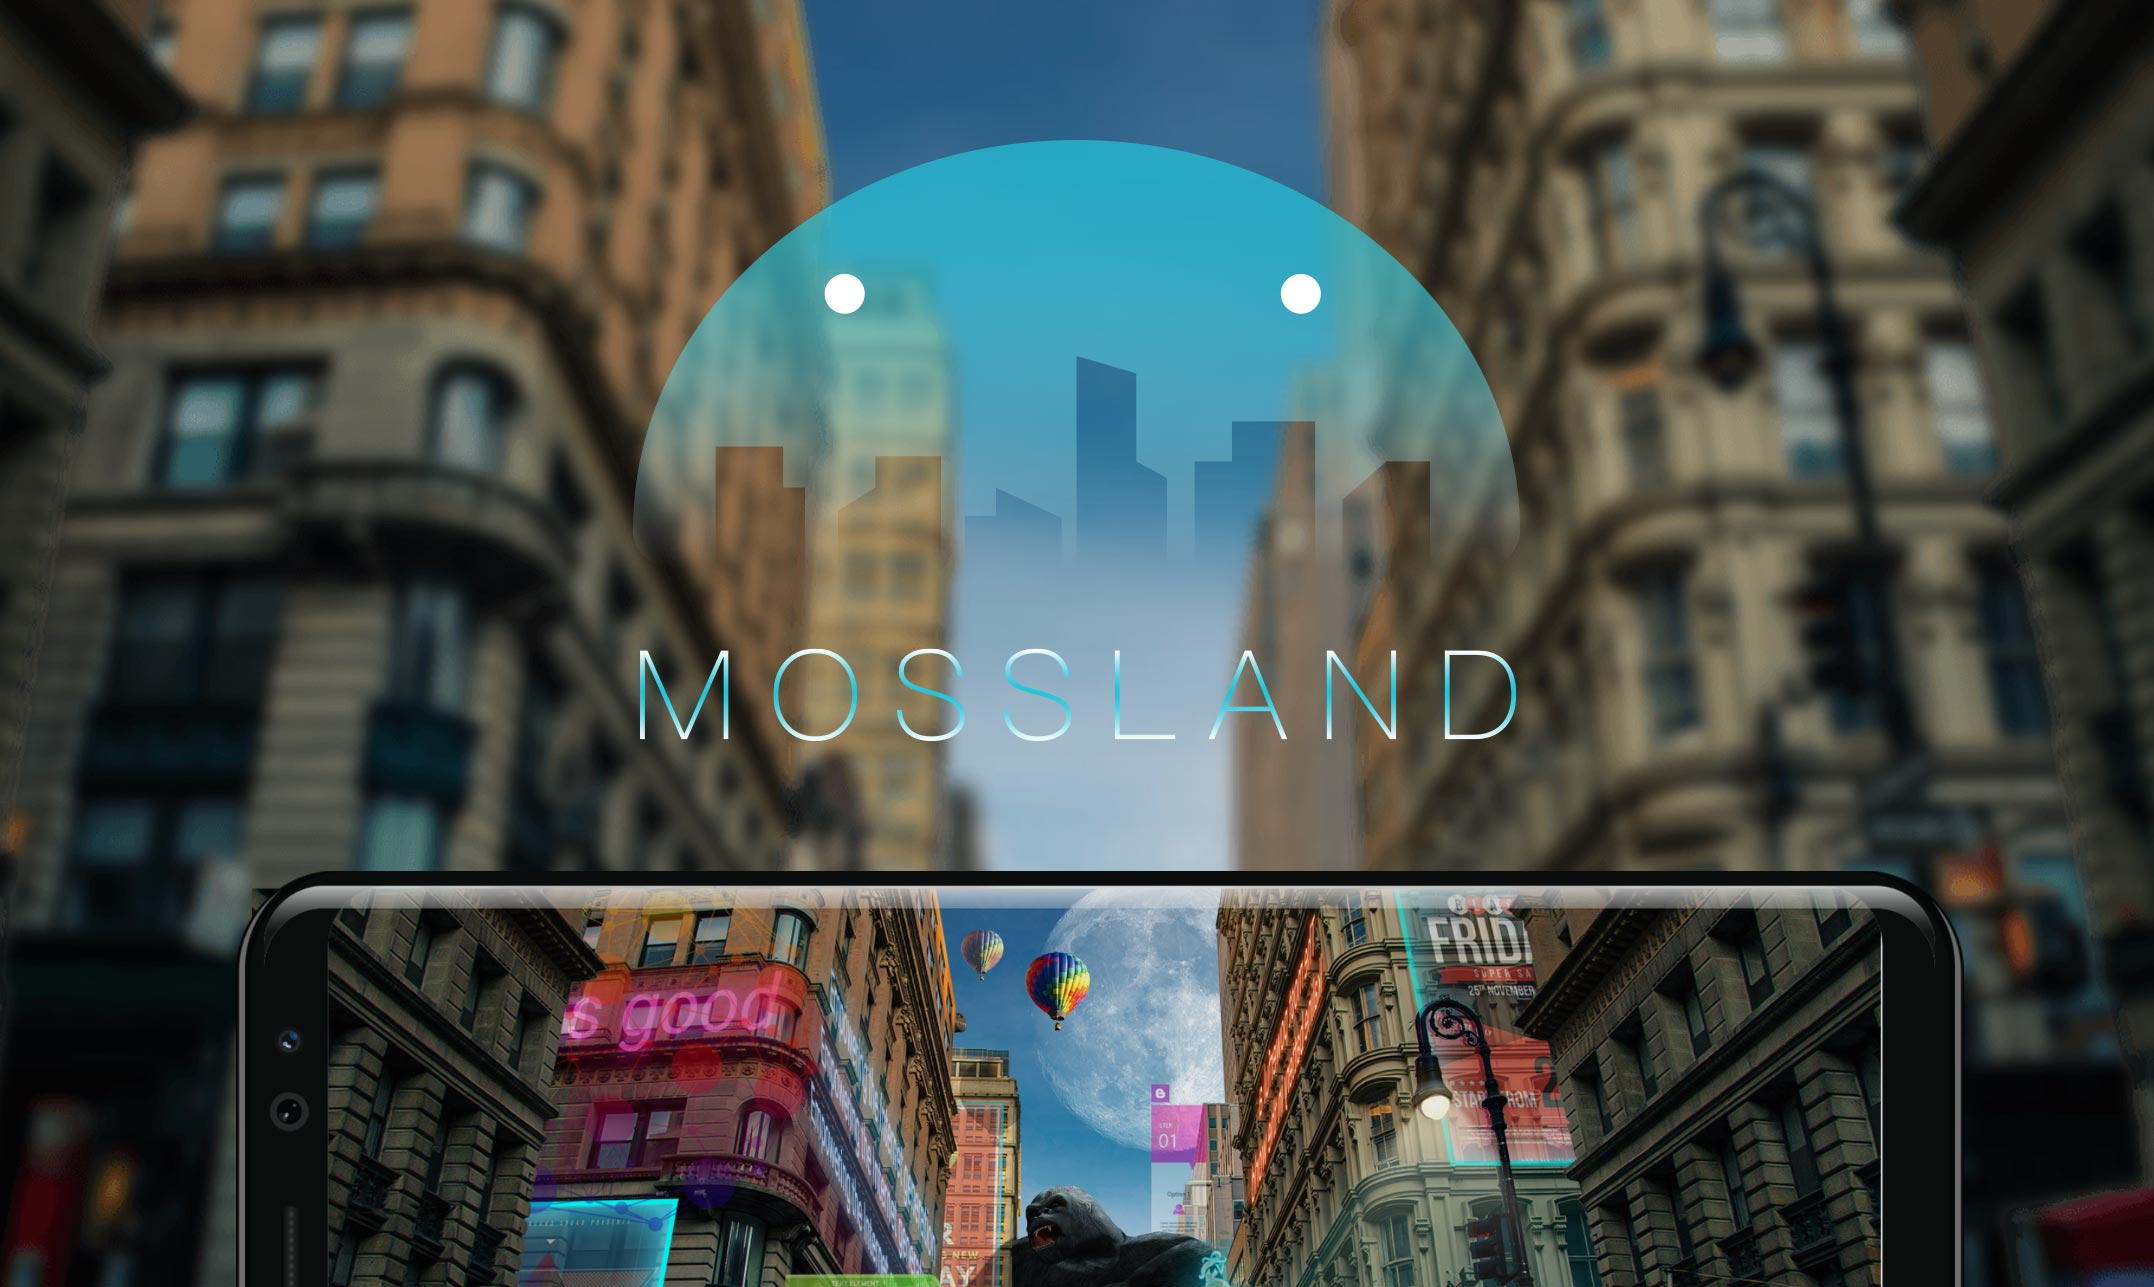
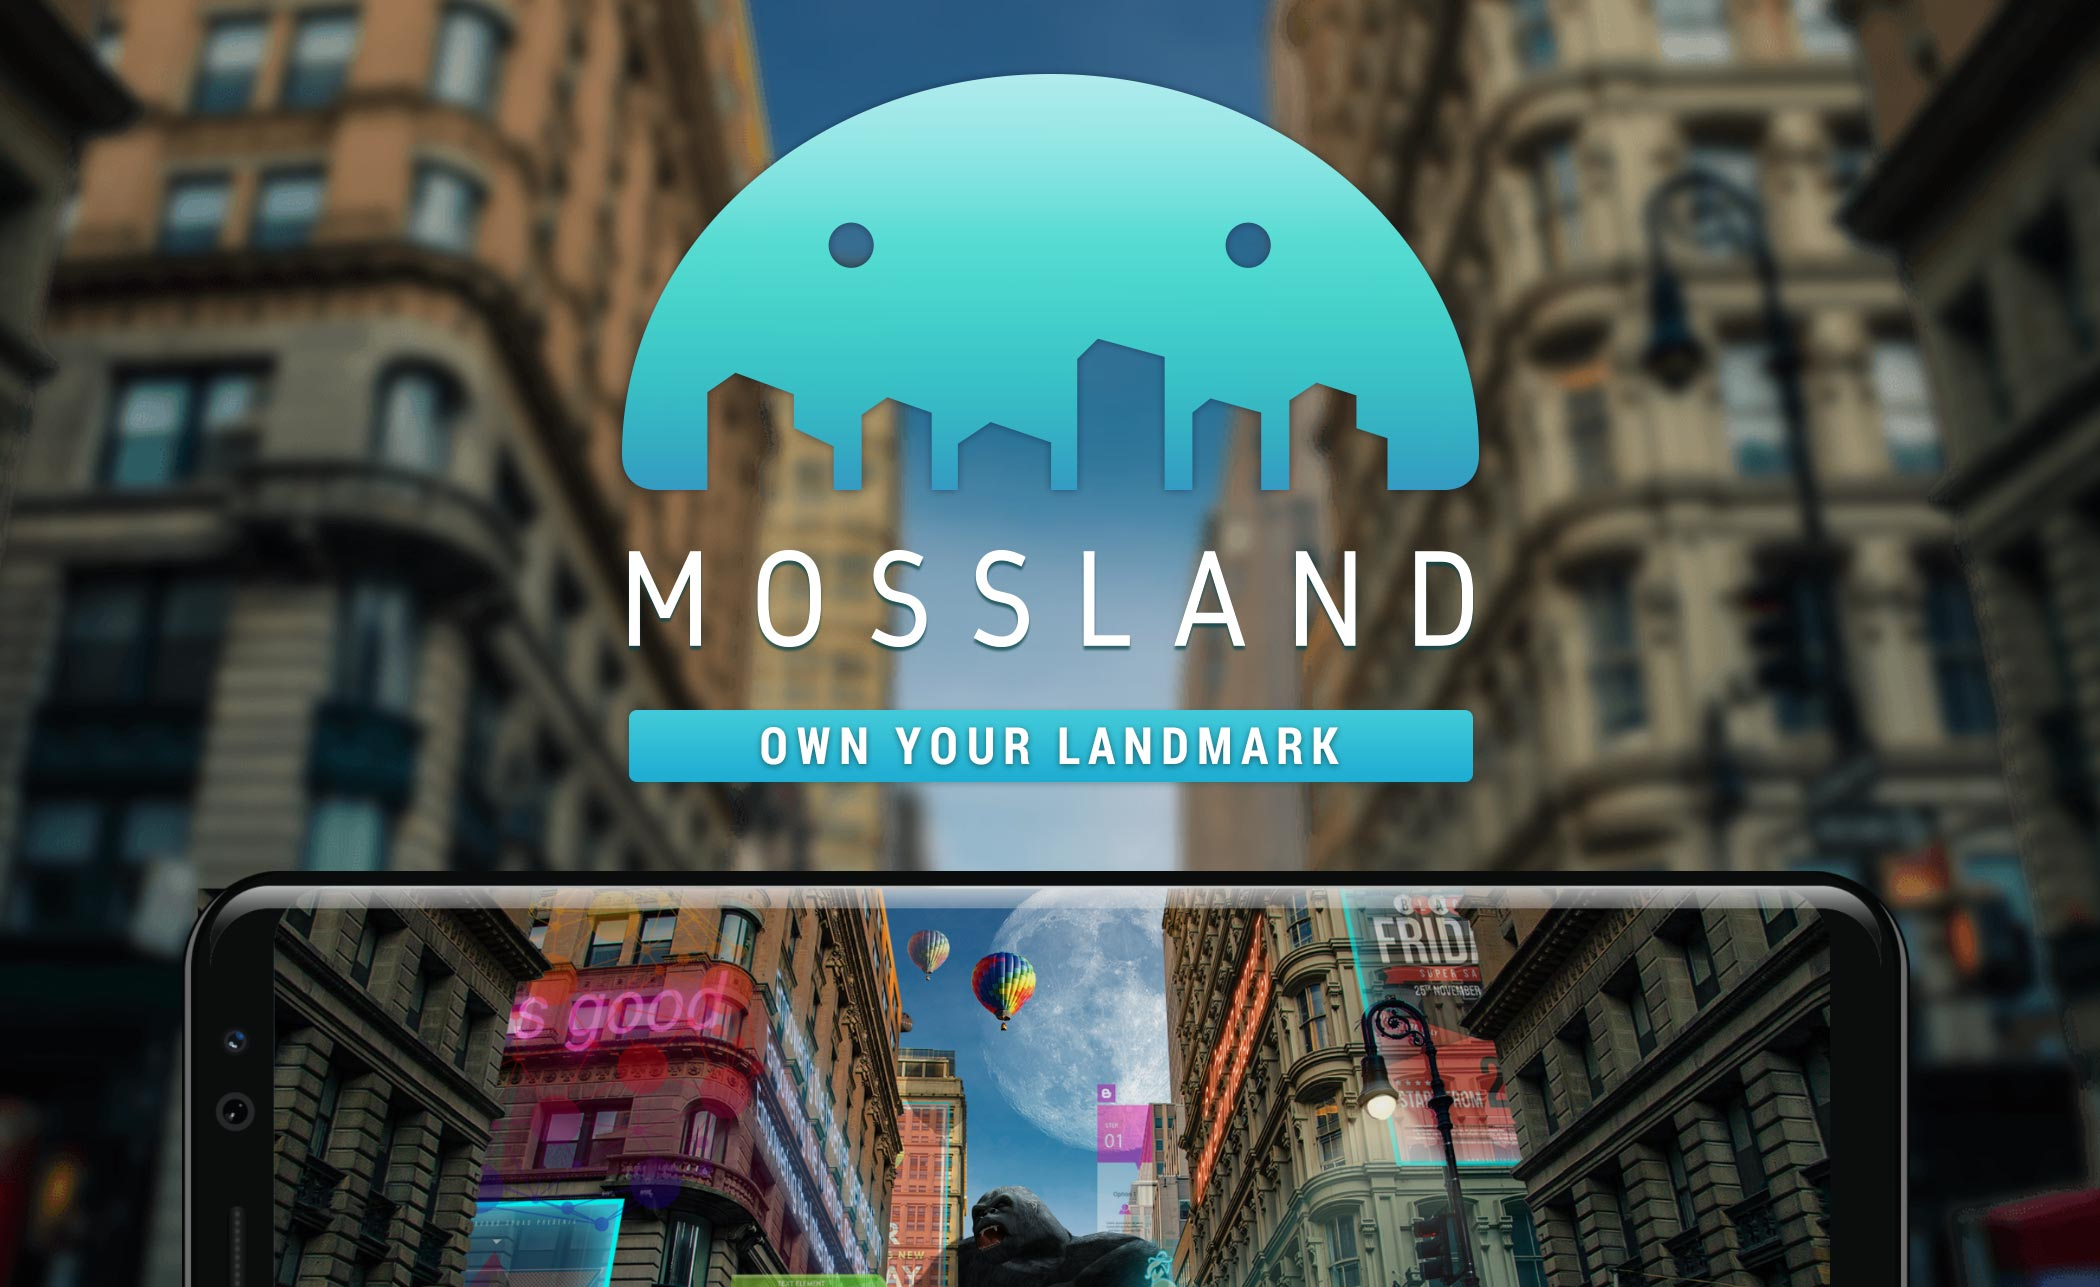
- pc,mobile 로고변경 - 헤더 모션 수정 - og image 수정

diff --git a/css/style.css b/css/style.css
@@ -806,12 +806,13 @@ footer.main-footer a:hover{
     width: 100%;
     z-index: 2000;
     padding: 20px 0;
-    transition: padding 0.2s ;
+    background-color: transparent;
+    transition: padding 0.2s, background-color 0.4s ;
 }
 
 .main-header.active {
     padding: 20px 0;
-    background: rgba(0,177,206,1);
+    background-color: rgba(0,177,206,1);
 }
 
 #notice {
@@ -882,18 +883,18 @@ footer.main-footer a:hover{
 
 
 .motion-logo {
-    height: 350px;
+    height: 340px;
     position: absolute;
     z-index: 1500;
     text-align: center;
-    top: 30%;
-    margin-top: -175px;
+    top: 35%;
+    margin-top: -170px;
     left: 0;
     width: 100%;
     opacity: 0;
     transform: scale(0.6);
-    transition: transform 0.4s, opacity 0.3s;
-    transition-timing-function: ease-in-out;
+    transition: transform 0.6s, opacity 0.3s, height 0.5s;
+    transition-timing-function: ease-out;
 }
 
 .motion-logo img {

diff --git a/index.html b/index.html
@@ -104,7 +104,7 @@
 
             <canvas id="mossland-ar"></canvas>
             <canvas id="mossland-reality"></canvas>
-            <h1 class="motion-logo"><img src="img/logo_main.png" alt="Mossland Own Your Landmark"></h1>
+            <h1 class="motion-logo"><img src="img/logo_main_v2.png" alt="Mossland Own Your Landmark"></h1>
             <div class="motion-title">
                 Own Your Landmark<br />
             </div>
@@ -118,7 +118,7 @@
     <section id="main">
         <section class="maintop">
 
-            <img src="img/main_mobile.jpg" width="100%">
+            <img src="img/main_mobile.jpg?v=2" width="100%">
 
         </section>
         <section class="ico" id="ico">

diff --git a/css/responsive.css b/css/responsive.css
@@ -5,6 +5,13 @@
         width: 1000px;
     }
 
+    .motion-logo {
+        top: 35%;
+        height: 260px;
+        margin-top: -130px;
+
+    }
+
     .features-item-odd .features-con {
         padding-right: 6%;
     }
@@ -51,9 +58,9 @@
     }
 
     .motion-logo {
-        top: 40%;
-        height: 300px;
-        margin-top: -150px;
+        top: 35%;
+        height: 240px;
+        margin-top: -120px;
 
     }
 
